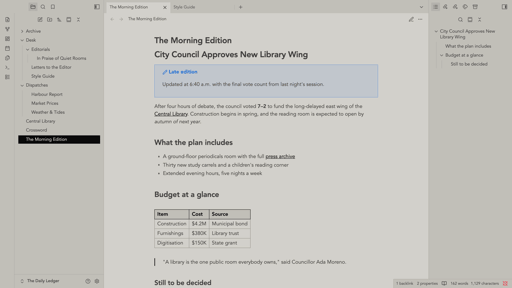
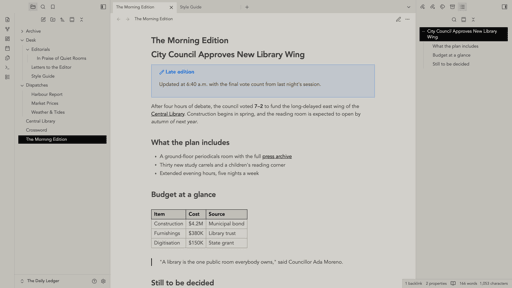
docs: refresh screenshots and add a gallery
Recaptures light.png, dark.png and the 512x288 listing thumbnail from the
1.0.4 build on Obsidian 1.14.4, and adds Settings, Properties and
Backlinks shots under a new Gallery section in the README.

diff --git a/README.md b/README.md
@@ -27,6 +27,21 @@ there is no newsprint dark palette.
 
 ![Dark mode, Red Graphite's scheme](screenshots/dark.png)
 
+## Gallery
+
+Settings, in the same light chrome: ink labels, with the open page as a solid
+ink bar.
+
+![The Settings window in light mode](screenshots/settings.png)
+
+The Properties view in the right sidebar, with the property-name suggestions open.
+
+![The Properties view with property-name suggestions](screenshots/properties.png)
+
+Backlinks: linked mentions in the right sidebar, each match shown in context.
+
+![The Backlinks view in the right sidebar](screenshots/backlinks.png)
+
 ## Installation
 
 Not yet in the community directory. To install manually, copy `manifest.json` and
